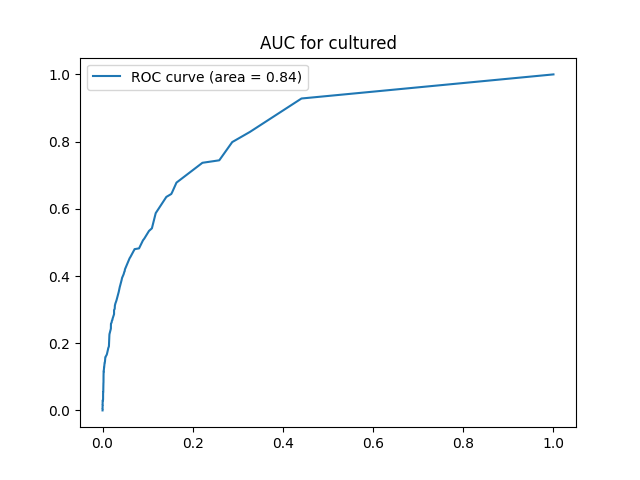
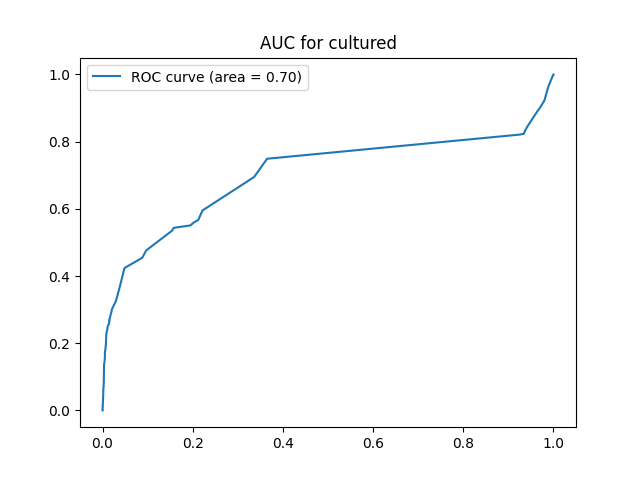
latest changes to AE

diff --git a/scripts/test.py b/scripts/test.py
@@ -1,23 +1,118 @@
 import pandas as pd
+import numpy as np
+import matplotlib.pyplot as plt
+import seaborn as sns
+from sklearn import svm, metrics, preprocessing
+from sklearn.model_selection import train_test_split, GridSearchCV
+from sklearn.preprocessing import MinMaxScaler
+from tensorflow import keras as ks
+import chardet
+from sklearn.metrics import roc_curve, auc
+from keras.wrappers.scikit_learn import KerasClassifier
 
+def scale(train, test):
+    xtrain_scaled = pd.DataFrame(MinMaxScaler().fit_transform(train), columns=train.columns)
+    xtest_scaled = pd.DataFrame(MinMaxScaler().fit_transform(test), columns=test.columns)
+    return xtrain_scaled, xtest_scaled
 
-df = pd.read_csv('metatranscriptomes/salazar_profiles/OM_RGC_genus_KO_profiles_metat_rarefy.tsv')
-meta = pd.read_csv('metatranscriptomes/salazar_profiles/salazar_metadata.csv', encoding='ISO-8859-1')
-convert = pd.read_csv('metatranscriptomes/salazar_profiles/metat_to_metag.csv')
-convert_dict = dict(zip(convert['metat'].values.tolist(), convert['site'].values.tolist())) #df_locations -> meta_locations
+def detect_encoding(file):
+    guess = chardet.detect(open(file, 'rb').read())['encoding']
+    return guess
 
+class Autoencoder(ks.models.Model):
+    def __init__(self, actual_dim, latent_dim, activation, loss, optimizer):
+        super(Autoencoder, self).__init__()
+        self.latent_dim = latent_dim
 
-df_locations = [c for c in df.columns.tolist() if c.__contains__('TARA')]
-meta_locations = meta['site'].values.tolist()
+        self.encoder = ks.Sequential([
+        ks.layers.Flatten(),
+        ks.layers.Dense(latent_dim, activation=activation),
+        ])
 
-#print(len(df_locations), len(meta_locations), len(convert))
-count = 0
-for loc in df_locations:
-    if loc in convert_dict.keys():
-        if convert_dict[loc] in meta_locations:
-            count += 1
-    else:
-        if loc in meta_locations:
-            count += 1
+        self.decoder = ks.Sequential([
+        ks.layers.Dense(actual_dim, activation=activation),
+        #ks.layers.Reshape((actual_dim, actual_dim))
+        ])
 
-print(count)
+        self.compile(loss=loss, optimizer=optimizer, metrics=['binary_accuracy'])
+
+    def call(self, x):
+        encoded = self.encoder(x)
+        decoded = self.decoder(encoded)
+        return decoded
+
+def create_AE(actual_dim=1, latent_dim=100, activation='relu', loss='MAE', optimizer='Adam'):
+    return Autoencoder(actual_dim, latent_dim, activation, loss, optimizer)
+
+print('Reading data...')
+metadata = pd.read_csv('files/data/rhizo_data/ITS_rhizosphere_metadata.csv', header=0, index_col=0, encoding=detect_encoding('files/data/rhizo_data/ITS_rhizosphere_metadata.csv'))
+otu_features = pd.read_csv('files/data/rhizo_data/ITS_rhizosphere_otu.csv', header=0, index_col=0, encoding=detect_encoding('files/data/rhizo_data/ITS_rhizosphere_otu.csv'))
+otu_T = otu_features.T
+
+data = metadata.join(otu_T)
+#print(data)
+
+ids = data.index.values.tolist()
+label_strings = data['drought_tolerance']
+
+print('Splitting data...')
+features = data.loc[:, ~data.columns.isin(['drought_tolerance', 'marker_gene'])]#, 'irrigation', 'habitat'])] #get rid of labels
+features = pd.get_dummies(features)
+#print(features)
+
+labels = pd.get_dummies(label_strings)['HI30']
+#print(labels)
+
+print('Cleaning features...')
+remove = [col for col in features.columns if features[col].isna().sum() != 0]
+features = features.loc[:, ~features.columns.isin(remove)] #remove columns with too many missing values
+#print(features)
+
+print()
+
+label = 'drought_tolerance'
+
+print('Scaling data...')
+X_train, X_test, y_train, y_test = train_test_split(features, labels, test_size=0.3, random_state=5)
+X_train_scaled, X_test_scaled = scale(X_train, X_test)
+
+autoencoder = create_AE(actual_dim=len(features.columns))
+# x_decoded = autoencoder.predict(X_train_scaled.values)
+# print(X_train_scaled.values)
+# print(x_decoded)
+# acc = np.mean(np.equal(X_train_scaled.values, np.round(x_decoded)))
+# print(acc)
+autoencoder.fit(X_train_scaled.values, X_train_scaled.values, epochs=10, validation_data=(X_test_scaled.values, X_test_scaled.values))
+
+# print('Building autoencoder model...')
+# params_AE = {
+#     'actual_dim' : [len(features.columns)],
+#     'latent_dim' : [10, 50, 100, 200],
+#     'activation' : ['relu', 'sigmoid', 'tanh'],
+#     'loss' : ['MAE', 'binary_crossentropy'],
+#     'optimizer' : ['SGD', 'Adam']
+# }
+#
+# model = KerasClassifier(build_fn=create_AE, epochs=10, verbose=0)
+# grid = GridSearchCV(
+#     estimator=model,
+#     param_grid=params_AE,
+#     cv=5,
+# #    n_jobs=3,
+#     verbose=3
+# )
+#
+# result = grid.fit(X_train_scaled, X_train_scaled)
+# params = grid.best_params_
+# print(params)
+# autoencoder = create_AE(**params)
+#
+# try:
+#     encoder_layer = autoencoder.encoder
+# except:
+#     exit
+#
+# AE_train = pd.DataFrame(encoder_layer.predict(X_train_scaled))
+# AE_train.add_prefix('feature_')
+# AE_test = pd.DataFrame(encoder_layer.predict(X_test_scaled))
+# AE_test.add_prefix('feature_')

diff --git a/scripts/AE-Rhizo.py b/scripts/AE-Rhizo.py
@@ -7,7 +7,7 @@ from sklearn.model_selection import train_test_split, GridSearchCV
 from sklearn.preprocessing import MinMaxScaler
 from tensorflow import keras as ks
 import chardet
-from sklearn.metrics import roc_curve, auc
+from sklearn.metrics import roc_curve, auc, make_scorer, accuracy_score
 from keras.wrappers.scikit_learn import KerasClassifier
 
 def scale(train, test):
@@ -86,7 +86,7 @@ class Autoencoder(ks.models.Model):
         #ks.layers.Reshape((actual_dim, actual_dim))
         ])
 
-        self.compile(loss=loss, optimizer=optimizer, metrics=['accuracy'])
+        self.compile(loss=loss, optimizer=optimizer, metrics=[ks.metrics.BinaryAccuracy(name='accuracy')])
 
     def call(self, x):
         encoded = self.encoder(x)
@@ -146,8 +146,9 @@ grid = GridSearchCV(
     verbose=3
 )
 
-result = grid.fit(X_train_scaled, X_train_scaled)
+result = grid.fit(X_train_scaled, X_train_scaled, validation_data=(X_test_scaled, X_test_scaled))
 params = grid.best_params_
+print(params)
 autoencoder = create_AE(**params)
 
 try:
@@ -160,44 +161,46 @@ AE_train.add_prefix('feature_')
 AE_test = pd.DataFrame(encoder_layer.predict(X_test_scaled))
 AE_test.add_prefix('feature_')
 
-AE_train = preprocessing.scale(AE_train)
-AE_test = preprocessing.scale(AE_test)
+print(AE_train.shape)
+
+#AE_train = preprocessing.scale(AE_train)
+#AE_test = preprocessing.scale(AE_test)
 
 print('Predicting with SVM...')
 
 
-params = {
-    'C': [0.1, 1, 10, 100, 1000],
-    'gamma': [1, 0.1, 0.01, 0.001, 0.0001],
-    'kernel': ['rbf', 'linear'],
-    'probability': [True]
-}
-
-clf = GridSearchCV(
-    estimator=svm.SVC(),
-    param_grid=params,
-    cv=5,
-    n_jobs=5,
-    verbose=3
-)
-
-print('Building model for label:', label)
-clf.fit(AE_train, y_train)
-
-print('Predicting on test data for label:', label)
-y_pred = clf.predict(AE_test)
-y_prob = clf.predict_proba(AE_test) #get probabilities for AUC
-probs = y_prob[:,1]
-
-print('Calculating AUC score...')
-plot_auc(probs, y_test, 'AUC for '+label, label+'_AUC.png')
-
-print('Calculating metrics for:', label)
-print("Accuracy:",metrics.accuracy_score(y_test, y_pred))
-print("Precision:",metrics.precision_score(y_test, y_pred))
-print("Recall:",metrics.recall_score(y_test, y_pred))
-
-print('Plotting:', label)
-plot_confusion_matrix(y_pred=y_pred, y_actual=y_test, title=label, filename=label+'_CM.png')
-
-print()
+# params = {
+#     'C': [0.1, 1, 10, 100, 1000],
+#     'gamma': [1, 0.1, 0.01, 0.001, 0.0001],
+#     'kernel': ['rbf', 'linear'],
+#     'probability': [True]
+# }
+#
+# clf = GridSearchCV(
+#     estimator=svm.SVC(),
+#     param_grid=params,
+#     cv=5,
+#     n_jobs=5,
+#     verbose=3
+# )
+#
+# print('Building model for label:', label)
+# clf.fit(AE_train, y_train)
+#
+# print('Predicting on test data for label:', label)
+# y_pred = clf.predict(AE_test)
+# y_prob = clf.predict_proba(AE_test) #get probabilities for AUC
+# probs = y_prob[:,1]
+#
+# print('Calculating AUC score...')
+# plot_auc(probs, y_test, 'AUC for '+label, label+'_AUC.png')
+#
+# print('Calculating metrics for:', label)
+# print("Accuracy:",metrics.accuracy_score(y_test, y_pred))
+# print("Precision:",metrics.precision_score(y_test, y_pred))
+# print("Recall:",metrics.recall_score(y_test, y_pred))
+#
+# print('Plotting:', label)
+# plot_confusion_matrix(y_pred=y_pred, y_actual=y_test, title=label, filename=label+'_CM.png')
+#
+# print()

diff --git a/scripts/AE-TARA.py b/scripts/AE-TARA.py
@@ -65,7 +65,7 @@ class Autoencoder(ks.models.Model):
         #ks.layers.Reshape((actual_dim, actual_dim))
         ])
 
-        self.compile(loss=loss, optimizer=optimizer, metrics=['accuracy'])
+        self.compile(loss=loss, optimizer=optimizer, metrics=[ks.metrics.BinaryAccuracy(name='accuracy')])
 
     def call(self, x):
         encoded = self.encoder(x)
@@ -145,8 +145,9 @@ for label in labels.columns:
     X_train_scaled, X_test_scaled = scale(X_train, X_test)
 
     print('Building autoencoder model...')
-    result = grid.fit(X_train_scaled, X_train_scaled)
+    result = grid.fit(X_train_scaled, X_train_scaled, validation_data=(X_test_scaled, X_test_scaled))
     params = grid.best_params_
+    print(params)
 
     autoencoder = create_AE(**params) #create autoencoder with best parameters from grid search
 
@@ -160,28 +161,30 @@ for label in labels.columns:
     AE_test = pd.DataFrame(encoder_layer.predict(X_test_scaled))
     AE_test.add_prefix('feature_')
 
-    AE_train = preprocessing.scale(AE_train)
-    AE_test = preprocessing.scale(AE_test)
+    print(AE_train.shape)
 
-    print('Predicting with SVM...')
+    #AE_train = preprocessing.scale(AE_train)
+    #AE_test = preprocessing.scale(AE_test)
 
-    print('Building model for label:', label)
-    clf.fit(AE_train, y_train)
-
-    print('Predicting on test data for label:', label)
-    y_pred = clf.predict(AE_test)
-    y_prob = clf.predict_proba(AE_test) #get probabilities for AUC
-    probs = y_prob[:,1]
-
-    print('Calculating AUC score...')
-    plot_auc(probs, y_test, 'AUC for '+label, label+'_AUC-nometa.png')
-
-    print('Calculating metrics for:', label)
-    print("Accuracy:",metrics.accuracy_score(y_test, y_pred))
-    print("Precision:",metrics.precision_score(y_test, y_pred))
-    print("Recall:",metrics.recall_score(y_test, y_pred))
-
-    print('Plotting:', label)
-    plot_confusion_matrix(y_pred=y_pred, y_actual=y_test, title=label, filename=label+'_CM-nometa.png')
-
-    print()
+    # print('Predicting with SVM...')
+    #
+    # print('Building model for label:', label)
+    # clf.fit(AE_train, y_train)
+    #
+    # print('Predicting on test data for label:', label)
+    # y_pred = clf.predict(AE_test)
+    # y_prob = clf.predict_proba(AE_test) #get probabilities for AUC
+    # probs = y_prob[:,1]
+    #
+    # print('Calculating AUC score...')
+    # plot_auc(probs, y_test, 'AUC for '+label, label+'_AUC-nometa.png')
+    #
+    # print('Calculating metrics for:', label)
+    # print("Accuracy:",metrics.accuracy_score(y_test, y_pred))
+    # print("Precision:",metrics.precision_score(y_test, y_pred))
+    # print("Recall:",metrics.recall_score(y_test, y_pred))
+    #
+    # print('Plotting:', label)
+    # plot_confusion_matrix(y_pred=y_pred, y_actual=y_test, title=label, filename=label+'_CM-nometa.png')
+    #
+    # print()

diff --git a/scripts/AE-GEM.py b/scripts/AE-GEM.py
@@ -86,7 +86,7 @@ class Autoencoder(ks.models.Model):
         #ks.layers.Reshape((actual_dim, actual_dim))
         ])
 
-        self.compile(loss=loss, optimizer=optimizer, metrics=['accuracy'])
+        self.compile(loss=loss, optimizer=optimizer, metrics=[ks.metrics.BinaryAccuracy(name='accuracy')])
 
     def call(self, x):
         encoded = self.encoder(x)
@@ -148,7 +148,7 @@ grid = GridSearchCV(
     verbose=3
 )
 
-result = grid.fit(X_train_scaled, X_train_scaled)
+result = grid.fit(X_train_scaled, X_train_scaled, validation_data=(X_test_scaled, X_test_scaled))
 params = grid.best_params_
 autoencoder = create_AE(**params)
 
